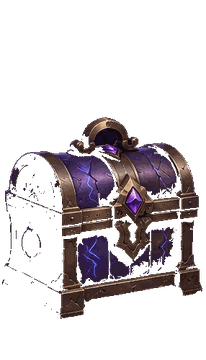
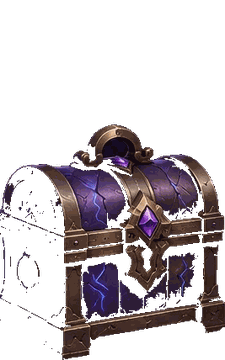
Truhen-Oeffnung: Vollbild, Sounds, Belohnungen springen aus der Truhe
- Das Oeffnen-Fenster fuellt jetzt den GANZEN Bildschirm (dunkler magischer
  Verlauf in der Truhen-Farbe, Safe-Areas beruecksichtigt), Buehne/Truhe/
  Lichtsaeule/Schockwelle entsprechend groesser
- Belohnungen ENTSTEHEN in der Truhenoeffnung: springen mit Schwung heraus
  (Overshoot-Feder), erst als leuchtende Silhouette, dann Blitz-Enthuellung,
  danach sanftes Schweben ueber der offenen Truhe; Tipp laesst den Drop nach
  oben davonfliegen und holt den naechsten aus der Truhe
- Neue synthetisierte Sounds (WebAudio, lizenzfrei, an Effekt-Schalter und
  -Lautstaerke gekoppelt): Rumpeln beim Wackeln, dumpfer Aufprall bei der
  Landung, Whoosh+Glissando+Glitzer-Akkord beim Aufspringen, Funkel-Klang je
  Waehrungs-Drop, helle Fanfare bei Item-Drops
- Frames neu freigestellt (20px-Einzug entfernt Sprite-Trennlinien)
- audio.js v5 (einheitlich in app/game/local), game v84, local v72, app v136

Claude-Session: https://claude.ai/code/session_01MGnrpYm1rjF2AQZegA46XA

diff --git a/index.html b/index.html
@@ -1608,12 +1608,25 @@
   .chest-buy .chest-lbl { font-size: .78rem; }
   .chest-cost { font-weight: 800; font-variant-numeric: tabular-nums; font-size: .85rem; }
 
-  /* Truhen-Öffnen-Modal: Wackeln -> Blitz + Strahlen + Funkenflug -> Reveal */
+  /* Truhen-Öffnen-Modal: VOLLBILD-Erlebnis (Wackeln -> Sprung -> Frames -> Drops) */
+  #chest-modal { padding: 0; }
+  #chest-modal .modal-card.chest-card {
+    width: 100%; height: 100%; max-width: none; max-height: none; margin: 0;
+    border-radius: 0; border: none; box-shadow: none;
+    display: flex; flex-direction: column; align-items: center; justify-content: center;
+    gap: 4px;
+    background:
+      radial-gradient(120% 90% at 50% 32%, color-mix(in srgb, var(--r) 16%, transparent), transparent 62%),
+      radial-gradient(150% 120% at 50% 110%, #241046 0%, #0a0716 72%);
+    padding: calc(16px + env(safe-area-inset-top)) 18px calc(20px + env(safe-area-inset-bottom));
+  }
   .chest-card { text-align: center; overflow: hidden; }
+  .chest-card h2 { font-size: 1.45rem; }
+  .chest-card .btn { width: min(320px, 88%); }
   .chest-anim { margin: 4px 0 6px; }
-  .chest-stage { position: relative; width: 180px; height: 180px; margin: 0 auto;
+  .chest-stage { position: relative; width: 250px; height: 250px; margin: 0 auto;
     display: flex; align-items: center; justify-content: center; }
-  .chest-big-img { display: inline-block; width: 150px; height: 150px; object-fit: contain;
+  .chest-big-img { display: inline-block; width: 200px; height: 200px; object-fit: contain;
     position: relative; z-index: 2;
     filter: drop-shadow(0 0 20px color-mix(in srgb, var(--r) 60%, transparent)); }
   /* Rotierende Lichtstrahlen (Seltenheitsfarbe), erst beim Aufplatzen voll sichtbar */
@@ -1631,14 +1644,14 @@
       color-mix(in srgb, var(--r) 75%, #fff) 32%, transparent 68%);
   }
   /* Frame-Sequenz der sich oeffnenden Truhe (chest-open-2..5.png) */
-  .chest-frame-img { display: inline-block; height: 235px; width: auto; object-fit: contain;
-    position: relative; z-index: 2; margin-top: -58px;
+  .chest-frame-img { display: inline-block; height: 310px; width: auto; object-fit: contain;
+    position: relative; z-index: 2; margin-top: -76px;
     filter: drop-shadow(0 0 20px color-mix(in srgb, var(--r) 60%, transparent)); }
   /* hidden-Attribut muss gegen die display-Regeln oben gewinnen */
   .chest-big-img[hidden], .chest-frame-img[hidden] { display: none; }
   /* Lichtsaeule aus der geoeffneten Truhe */
   .chest-beam {
-    position: absolute; bottom: 46%; left: 50%; width: 70px; height: 250px;
+    position: absolute; bottom: 46%; left: 50%; width: 88px; height: 340px;
     transform: translateX(-50%) scaleY(0); transform-origin: bottom center;
     z-index: 1; opacity: 0; filter: blur(2px); border-radius: 40% 40% 0 0;
     background: linear-gradient(0deg,
@@ -1651,8 +1664,8 @@
     70%{opacity:.55} 100%{opacity:.3; transform:translateX(-50%) scaleY(1)} }
   /* Aufprall-Lichtwelle am Boden */
   .chest-shockwave {
-    position: absolute; bottom: 4px; left: 50%; width: 150px; height: 40px;
-    margin-left: -75px; border-radius: 50%; opacity: 0; z-index: 0;
+    position: absolute; bottom: 4px; left: 50%; width: 200px; height: 50px;
+    margin-left: -100px; border-radius: 50%; opacity: 0; z-index: 0;
     border: 3px solid color-mix(in srgb, var(--r) 80%, #fff);
     box-shadow: 0 0 18px color-mix(in srgb, var(--r) 60%, transparent);
   }
@@ -1722,14 +1735,25 @@
     border-radius: 8px; margin-bottom: 6px; }
   .drop-big.item .reveal-item-img { margin: 6px auto 4px; }
   .drop-big.item b { display: block; font-size: 1.1rem; }
-  /* Belohnung schwebt aus der Truhe: erst leuchtende Silhouette, dann Blitz-Reveal */
-  .drop-float { animation: floatUp .6s cubic-bezier(.2,.8,.3,1); transition: filter .3s ease; }
-  .drop-float.item-f { animation-duration: .85s; }
+  /* Belohnung ENTSTEHT IN der Truhe: springt aus der Oeffnung heraus (erst als
+     leuchtende Silhouette) und schwebt dann ueber der offenen Truhe. */
+  .chest-stage .drop-float {
+    position: absolute; left: 50%; bottom: 42%; z-index: 4; white-space: nowrap;
+    transform: translateX(-50%) translateY(30px) scale(.22);
+    animation: springOut .62s cubic-bezier(.3,1.45,.45,1) forwards;
+    transition: filter .3s ease;
+  }
+  .chest-stage .drop-float.item-f { animation-duration: .8s; white-space: normal; width: 220px; }
   .drop-float.sil { filter: brightness(0) drop-shadow(0 0 16px color-mix(in srgb, var(--r) 85%, #fff)); }
-  .drop-float.fly-off { animation: flyOff .25s ease-in forwards; }
-  @keyframes floatUp { 0%{transform:translateY(52px) scale(.55); opacity:0}
-    30%{opacity:1} 100%{transform:none} }
-  @keyframes flyOff { to { transform: translateY(-70px) scale(.8); opacity: 0; } }
+  .chest-stage .drop-float.fly-off { animation: flyOffStage .25s ease-in forwards; }
+  .chest-stage .drop-float.hover .drop-big { animation: dropHover 2.4s ease-in-out infinite; }
+  @keyframes springOut {
+    0%   { transform: translateX(-50%) translateY(30px) scale(.22); opacity: 0; }
+    22%  { opacity: 1; }
+    100% { transform: translateX(-50%) translateY(-118px) scale(1); opacity: 1; }
+  }
+  @keyframes flyOffStage { to { transform: translateX(-50%) translateY(-240px) scale(.7); opacity: 0; } }
+  @keyframes dropHover { 0%,100% { transform: translateY(0); } 50% { transform: translateY(-6px); } }
   /* Fortschritts-Punkte + Tipp-Hinweis */
   .drop-dots { display: flex; justify-content: center; gap: 8px; margin: 2px 0 6px; }
   .drop-dot { width: 11px; height: 11px; border-radius: 50%;
@@ -1774,6 +1798,9 @@
     .chest-beam.go { opacity: .3; transform: translateX(-50%) scaleY(1); }
     .drop-float.sil { filter: none; }
     .reveal-item, .drop-float { transition: none; }
+    /* Drop ohne Sprung-Animation direkt an der Schwebe-Position zeigen */
+    .chest-stage .drop-float { transform: translateX(-50%) translateY(-118px); opacity: 1; }
+    .chest-stage .drop-float.hover .drop-big { animation: none; }
   }
 
   #toast {
@@ -2337,6 +2364,6 @@
   window.addEventListener('pagehide', () => { dropFocus(); armInputs(); });
   window.addEventListener('pageshow', () => { dropFocus(); window.scrollTo(0, 0); });
 </script>
-<script type="module" src="./app.js?v=135"></script>
+<script type="module" src="./app.js?v=136"></script>
 </body>
 </html>

diff --git a/app.js b/app.js
@@ -1,9 +1,9 @@
 // Einstieg: Routing, Solo-Modus, Online-Aktionen -> RPCs, Realtime -> Re-Render.
 // Wichtig: db.js (laedt Supabase aus dem Netz) wird NUR bei Bedarf dynamisch
 // importiert. So bleibt der Solo-Modus auch ohne Netz/Supabase voll spielbar.
-import { render } from './game.js?v=83';
+import { render } from './game.js?v=84';
 import { gameAssetUrls } from './table.js?v=79';
-import { startLocal, resumeLocal, hasSoloSave } from './local.js?v=71';
+import { startLocal, resumeLocal, hasSoloSave } from './local.js?v=72';
 import { preloadCards, allCardImageUrls } from './cards.js?v=20';
 import { initAds, showBanner, hideBanner, isAdFree, setAdFree, isPreview, setPreview, isForceTest, setForceTest, adsStatus, onAdsStatus } from './ads.js?v=8';
 import { requireToken, refundToken, getTokens, tokenGateActive, setTokensForTest,
@@ -16,7 +16,8 @@ import { AVATAR_ITEMS, TABLE_ITEMS, SHOP_ADFREE, SHOP_BUNDLE, isOwned, avatarIte
          setCardBack, getCardBack, applyCardBack,
          isOwnerEmail, ownerUnlock, setOwnerUnlock } from './cosmetics.js?v=10';
 import { startMusic, setEnabled as setMusicEnabled, setVolume as setMusicVolume, isEnabled as musicEnabled, getVolume as musicVolume,
-         sfxCard, sfxBid, sfxTrick, sfxDeal, sfxTurn, sfxTap, haptic, setSfx, sfxEnabled, setSfxVolume, getSfxVolume } from './audio.js?v=4';
+         sfxCard, sfxBid, sfxTrick, sfxDeal, sfxTurn, sfxTap, haptic, setSfx, sfxEnabled, setSfxVolume, getSfxVolume,
+         sfxChestRumble, sfxChestImpact, sfxChestOpen, sfxDropReveal, sfxItemReveal } from './audio.js?v=5';
 import { $, showScreen, toast, esc, confetti } from './ui.js?v=2';
 import { SHOP_SECTIONS, CRYSTAL_PACKS, RARITY, SLOT_TIERS, TOKEN_PACKS, CHEST_TIERS, CHEST_META } from './shop-catalog.js?v=16';
 
@@ -1177,35 +1178,43 @@ async function openChestModal(chest) {
     const isItem = d.t === 'item';
 
     // Alten Drop nach oben davonfliegen lassen (Clash-Stil).
-    const prev = reveal.querySelector('.drop-float');
-    if (prev && !REDUCED_MOTION) { prev.classList.add('fly-off'); await wait(220); }
+    const prev = stage.querySelector('.drop-float');
+    if (prev) {
+      if (!REDUCED_MOTION) { prev.classList.add('fly-off'); await wait(220); }
+      prev.remove();
+    }
 
     // Vor seltenen Items: Truhe baut noch einmal Spannung auf.
     if (isItem && !REDUCED_MOTION) {
       anim.classList.add('shake2');
+      sfxChestRumble();
       spawnChestParticles(stage, 8);
       await wait(550);
       anim.classList.remove('shake2');
     }
 
-    // Belohnung schwebt als leuchtende Silhouette aus der Truhe.
-    reveal.innerHTML = `<div class="drop-float sil${isItem ? ' item-f' : ''}">${chestDropHtml(d)}</div>`;
-    const fl = reveal.querySelector('.drop-float');
+    // Belohnung ENTSTEHT IN der Truhe: springt als leuchtende Silhouette aus
+    // der Oeffnung heraus und bleibt dann ueber der Truhe schweben.
+    stage.insertAdjacentHTML('beforeend',
+      `<div class="drop-float sil${isItem ? ' item-f' : ''}">${chestDropHtml(d)}</div>`);
+    const fl = stage.querySelector('.drop-float');
     spawnChestParticles(stage, isItem ? 12 : 6);
-    if (!REDUCED_MOTION) await wait(isItem ? 800 : 560);   // Aufstieg + kurzer Halt
+    if (!REDUCED_MOTION) await wait(isItem ? 850 : 620);   // Heraussprung + kurzer Halt
 
-    // Mini-Blitz -> vollstaendige Enthuellung.
+    // Mini-Blitz -> vollstaendige Enthuellung + sanftes Schweben.
     flash.classList.remove('re'); void flash.offsetWidth; flash.classList.add('re');
     fl.classList.remove('sil');
-    if (d.t === 'crystals' || d.t === 'gold') countUpCrystals(fl.querySelector('.drop-n'), d.n | 0);
-    else confetti(1800);
+    fl.classList.add('hover');
+    if (d.t === 'crystals' || d.t === 'gold') { sfxDropReveal(); countUpCrystals(fl.querySelector('.drop-n'), d.n | 0); }
+    else { sfxItemReveal(); confetti(1800); }
     haptic?.(isItem ? [30, 40, 80] : 18);
 
     idx++; updateDots();
     if (idx >= drops.length) {
       hintEl.hidden = true;
       revealPhase = false;
-      if (!REDUCED_MOTION) await wait(900);
+      if (!REDUCED_MOTION) await wait(1100);
+      stage.querySelector('.drop-float')?.remove();
       finishing?.();
     }
     busy = false;
@@ -1232,9 +1241,11 @@ async function openChestModal(chest) {
       await wait(500);
       // 0,5–1,2s: leichtes Wackeln, Glow wird staerker.
       anim.classList.add('shake');
+      sfxChestRumble();
       await wait(700);
       // 1,2–1,8s: heftiges Wackeln, Licht dringt aus den Spalten.
       anim.classList.add('shake2');
+      sfxChestRumble();
       await wait(600);
       // 1,8–2,2s: Sprung + kraftvolle Landung mit Lichtwelle.
       anim.classList.remove('shake', 'shake2', 'charge');
@@ -1244,6 +1255,7 @@ async function openChestModal(chest) {
       shock.classList.add('go');
       card.classList.add('quake');
       spawnChestParticles(stage, 10);
+      sfxChestImpact();
       haptic?.([20, 30, 60]);
       await wait(300);
       card.classList.remove('quake');
@@ -1255,6 +1267,7 @@ async function openChestModal(chest) {
 
     // 2,2–2,6s: Bildschirmblitz + Deckel-Frames + Lichtsaeule + Strahlen.
     whiteflash.classList.add('go');
+    sfxChestOpen();
     haptic?.([30, 40, 30, 40, 120]);
     bigImg.hidden = true; frameImg.hidden = false;
     anim.classList.add('open-frames');

diff --git a/audio.js b/audio.js
@@ -101,6 +101,52 @@ export function sfxWin() {             // Spielende: kurze Fanfare
   [[523, 0], [659, 0.12], [784, 0.24], [1046, 0.40]].forEach(([f, dt]) => tone(f, t + dt, 0.7, { type: 'triangle', vol: 0.22 }));
 }
 
+// Kurzes, gefiltertes Rauschen (fuer Rumpeln/Aufprall/Whoosh).
+function noiseBurst(t, dur, opts = {}) {
+  const len = Math.max(1, Math.ceil(ctx.sampleRate * dur));
+  const buf = ctx.createBuffer(1, len, ctx.sampleRate);
+  const d = buf.getChannelData(0);
+  for (let i = 0; i < len; i++) d[i] = (Math.random() * 2 - 1) * (1 - i / len);
+  const src = ctx.createBufferSource(); src.buffer = buf;
+  const f = ctx.createBiquadFilter(); f.type = opts.type || 'lowpass';
+  f.frequency.value = opts.freq || 300;
+  const g = ctx.createGain();
+  g.gain.setValueAtTime(opts.vol ?? 0.3, t);
+  g.gain.exponentialRampToValueAtTime(0.0001, t + dur);
+  src.connect(f); f.connect(g); g.connect(sfx);
+  src.start(t); src.stop(t + dur + 0.02);
+}
+
+// --- Truhen-Sounds -----------------------------------------------------------
+export function sfxChestRumble() {     // Wackeln: tiefes Rumpeln + Holz-Klacken
+  if (!sfxOn || !ready()) return; const t = ctx.currentTime;
+  noiseBurst(t, 0.55, { freq: 170, vol: 0.22 });
+  for (let i = 0; i < 4; i++)
+    tone(85 + Math.random() * 45, t + i * 0.11, 0.09, { type: 'square', vol: 0.09, glide: 55 });
+}
+export function sfxChestImpact() {     // Kraftvolle Landung: dumpfer Schlag
+  if (!sfxOn || !ready()) return; const t = ctx.currentTime;
+  tone(130, t, 0.28, { type: 'sine', vol: 0.5, glide: 38 });
+  noiseBurst(t, 0.32, { freq: 240, vol: 0.38 });
+}
+export function sfxChestOpen() {       // Aufspringen: Whoosh + Glissando + Glitzer-Akkord
+  if (!sfxOn || !ready()) return; const t = ctx.currentTime;
+  noiseBurst(t, 0.5, { type: 'highpass', freq: 900, vol: 0.16 });
+  tone(220, t, 0.6, { type: 'sawtooth', vol: 0.09, glide: 1760 });
+  [[523, .18], [659, .26], [784, .34], [1046, .42], [1318, .50]]
+    .forEach(([f, dt]) => tone(f, t + dt, 0.8, { type: 'sine', vol: 0.15 }));
+}
+export function sfxDropReveal() {      // Belohnung enthuellt: Funkel-Klang
+  if (!sfxOn || !ready()) return; const t = ctx.currentTime;
+  tone(1046, t, 0.35, { type: 'sine', vol: 0.20 });
+  tone(1568, t + 0.07, 0.45, { type: 'sine', vol: 0.15 });
+}
+export function sfxItemReveal() {      // Seltenes Item: kleine helle Fanfare
+  if (!sfxOn || !ready()) return; const t = ctx.currentTime;
+  [[659, 0], [784, .10], [1046, .20], [1318, .34], [1568, .50]]
+    .forEach(([f, dt]) => tone(f, t + dt, 0.6, { type: 'triangle', vol: 0.19 }));
+}
+
 // Vibration (nur Mobil, an den Effekt-Schalter gekoppelt).
 // Im nativen iOS/Android-WebView gibt es navigator.vibrate nicht -> Capacitor
 // Haptics. Im Browser/PWA unveraendert ueber navigator.vibrate.

diff --git a/local.js b/local.js
@@ -2,9 +2,9 @@
 // Verbindet engine.js + ai.js mit der vorhandenen Render-Logik (game.js).
 import { newGame, chooseTrump, placeBid, playCard, legalCards, forbiddenBid } from './engine.js?v=4';
 import { botBid, botChooseTrump, botCard } from './ai.js?v=4';
-import { render } from './game.js?v=83';
+import { render } from './game.js?v=84';
 import { showScreen, toast, esc } from './ui.js?v=2';
-import { sfxCard, sfxBid, sfxTrick, sfxDeal, haptic } from './audio.js?v=4';
+import { sfxCard, sfxBid, sfxTrick, sfxDeal, haptic } from './audio.js?v=5';
 import { showBanner, hideBanner, preGameAd, midGameAd } from './ads.js?v=8';
 
 const BOT_DELAY = 750;     // ms zwischen Bot-Aktionen

diff --git a/game.js b/game.js
@@ -3,7 +3,7 @@
 // geprueft. Tisch/Hand/Stich liegen in table.js (eigene Komponenten).
 import { renderTable } from './table.js?v=79';
 import { $, esc, clearChildren, toast, confetti } from './ui.js?v=2';
-import { sfxWin, haptic } from './audio.js?v=4';
+import { sfxWin, haptic } from './audio.js?v=5';
 import { gameOverAd } from './ads.js?v=8';
 
 // Spielende-Feier nur einmal pro beendetem Spiel ausloesen.
